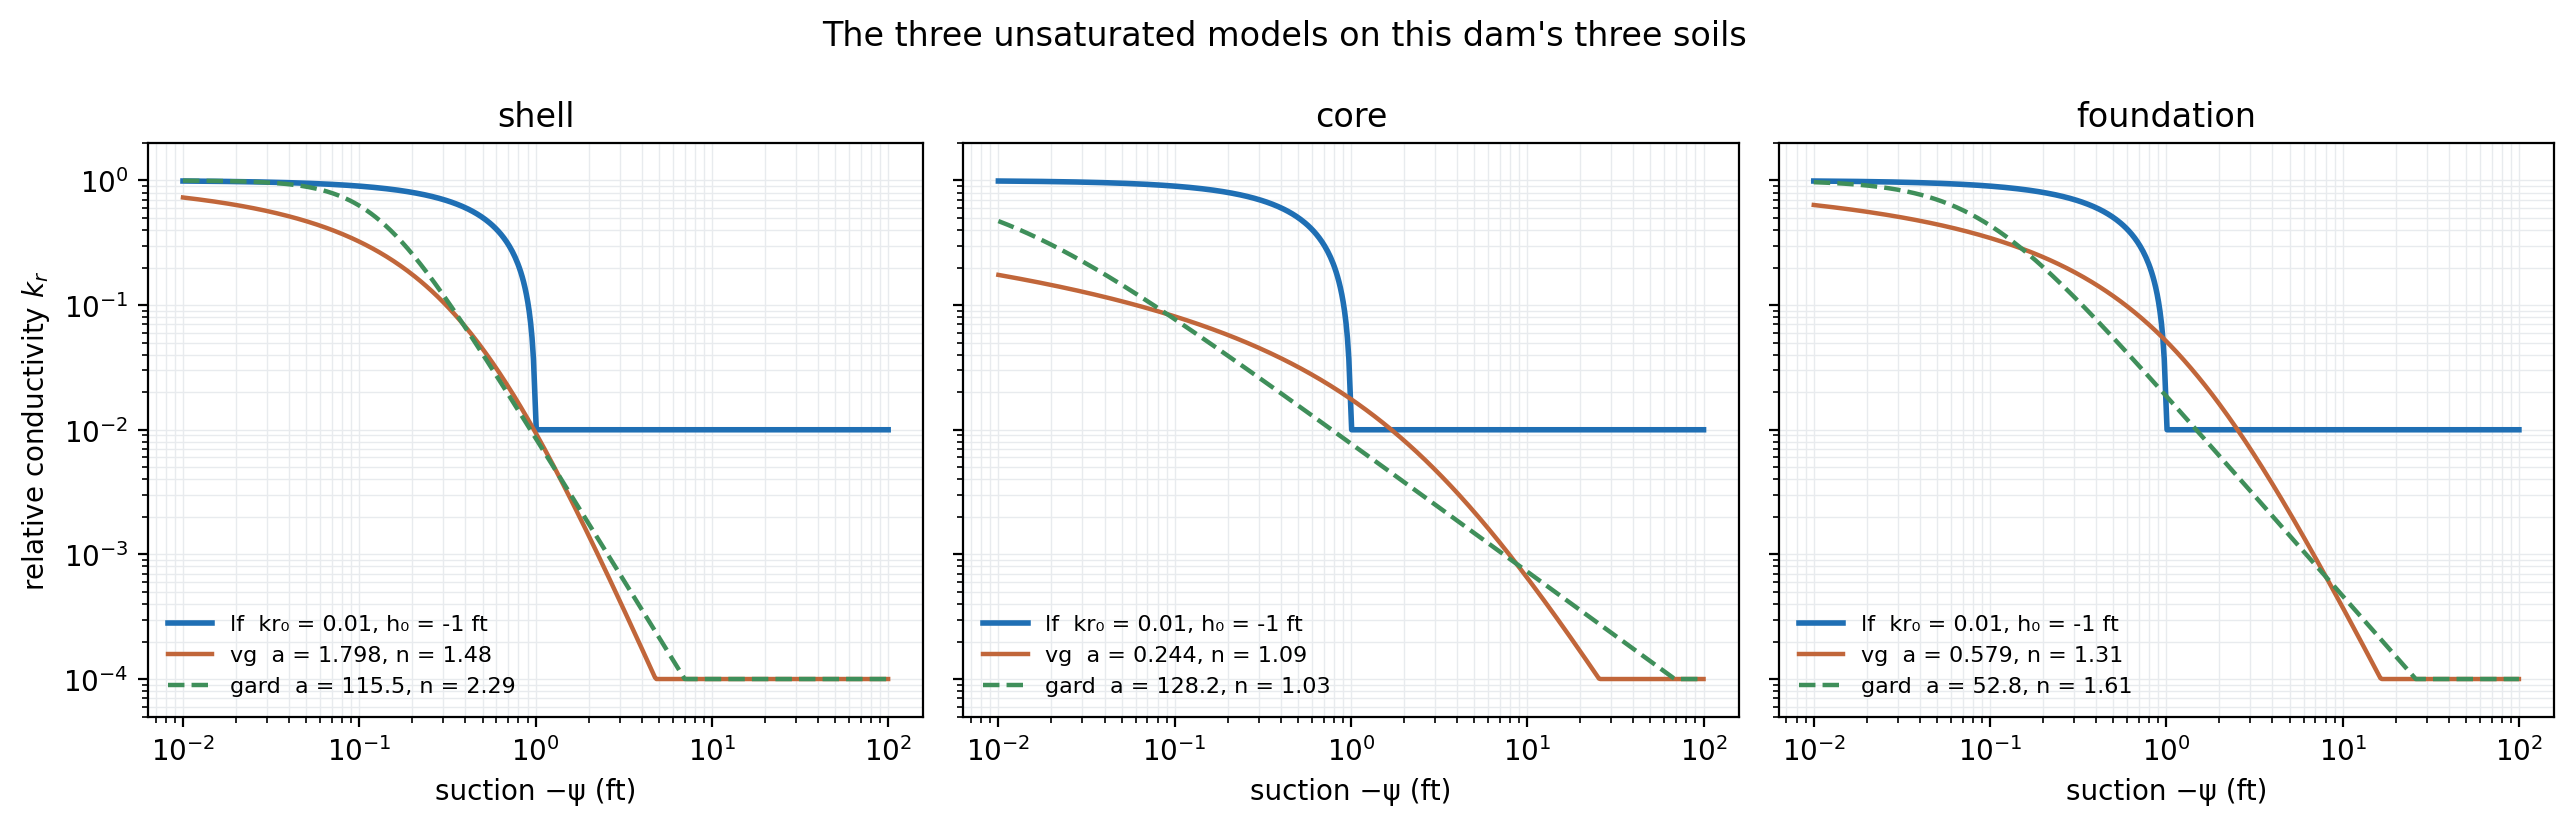
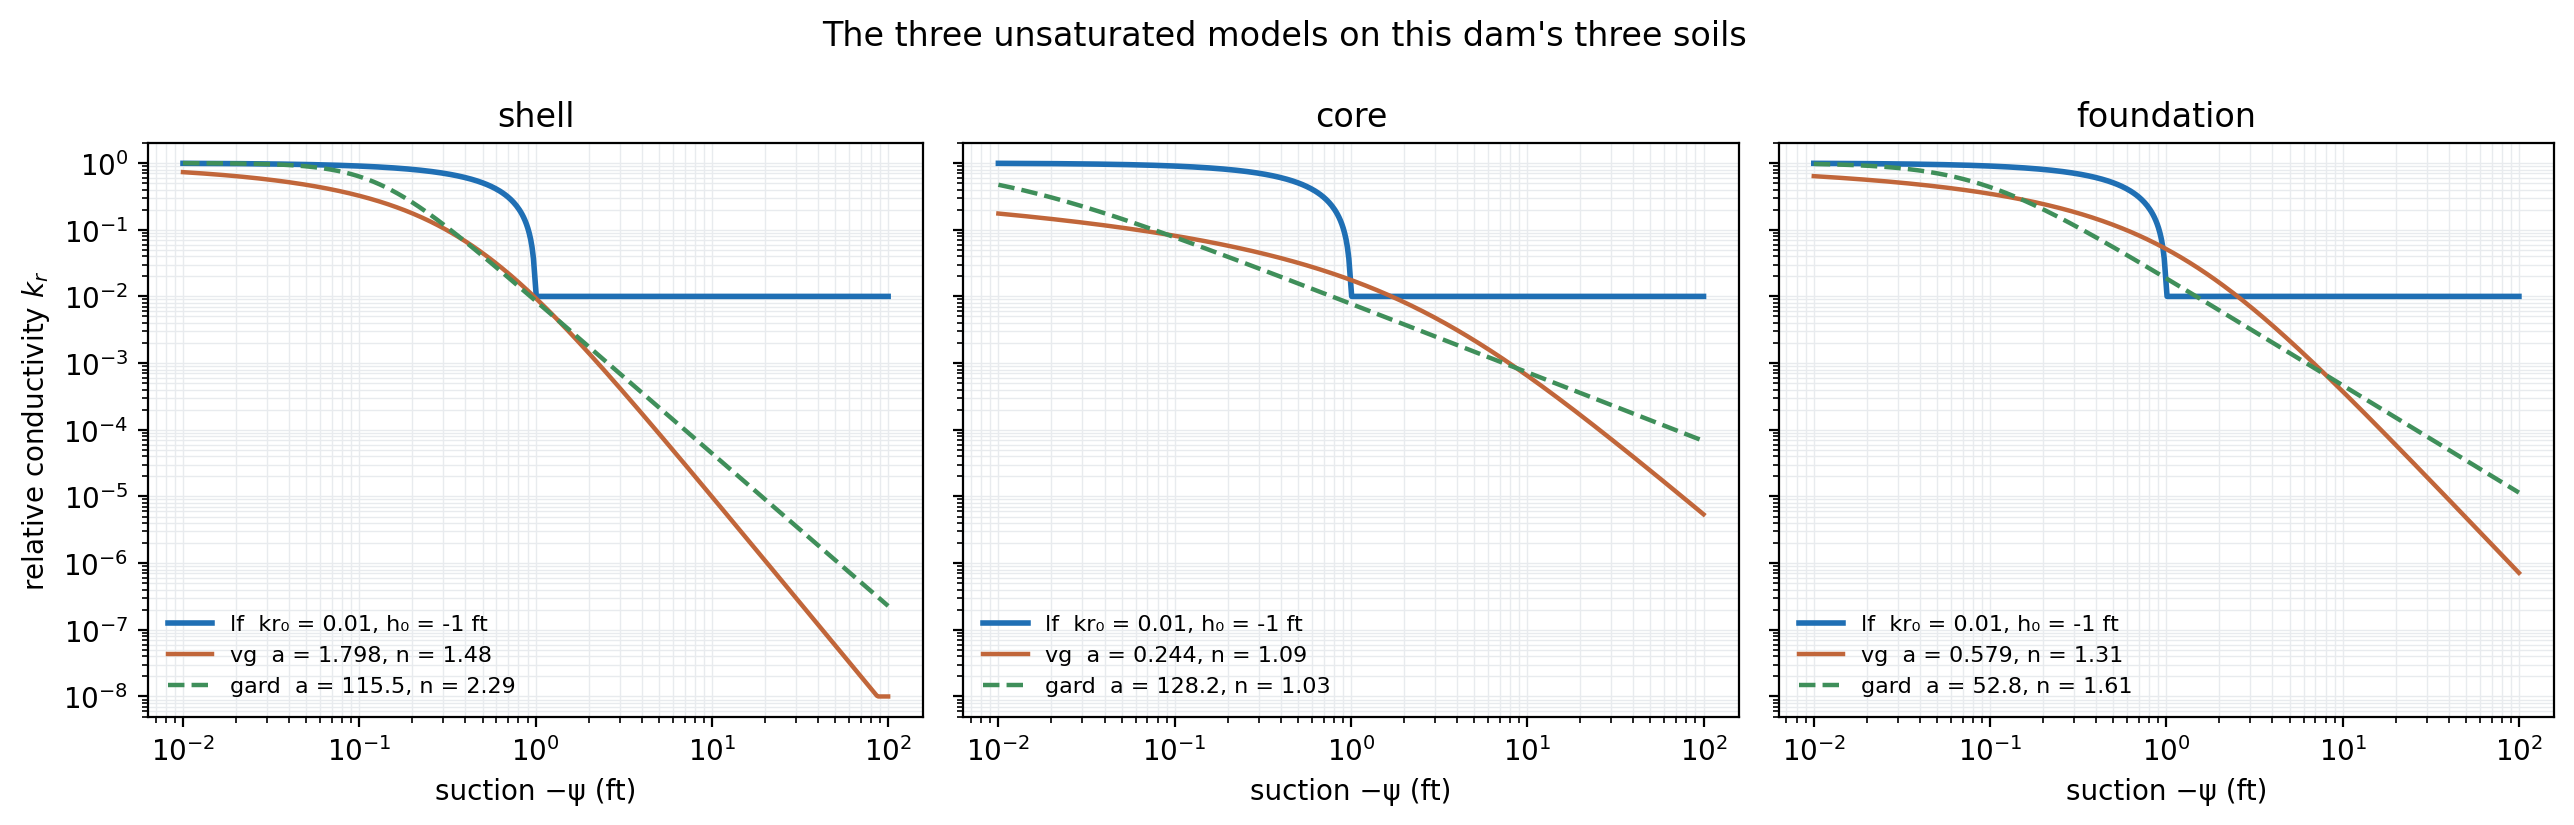
tutorials(seep02): the three models re-measured at the shipped floor
The van Genuchten and Gardner runs move with the deeper floor: q 1.8641 in 36
sweeps and 1.8655 in 28, against the linear front's unchanged 1.9546 — still
4.6% below it, and now 0.08% apart from each other. The phreatic surfaces part by
at most 0.46 / 0.36 / 0.15 ft over the eleven stations.

The kr figure draws the curves the solver evaluates, over the decades they
occupy, and the text says where each one bottoms out: the linear front on its own
0.01, the other two between 1e-4 and 1e-7 over the ten to forty feet of suction
this dam carries.

Claude-Session: https://claude.ai/code/session_01XjjT2aBxw8gY7EFdpoUcpj

diff --git a/docs/tutorials/seep02_johnson_dam.md b/docs/tutorials/seep02_johnson_dam.md
@@ -737,10 +737,13 @@ Between zero and one foot of suction it stays much wetter: at half a
 foot it is halfway down its straight line, at
 *k<sub>r</sub>* = 0.01 + 0.99 × 0.5 = 0.505, an order of magnitude above the other
 two. Below one foot it stops falling entirely and holds its floor of 0.01, while
-the other two continue down to the solver's own floor of 10<sup>−4</sup> and stay
-there. Over most of the unsaturated zone of this dam — where suctions of ten to
-forty feet are ordinary — the linear front leaves the soil a hundred times more
-conductive than the other two models do.
+the other two keep falling — the shell's van Genuchten curve runs all the way onto
+the solver's own 10<sup>−8</sup> guard at the right edge of the plot. Over the ten
+to forty feet of suction that are ordinary in this dam the two curved laws reach
+10<sup>−4</sup> to 10<sup>−7</sup> — the shell's steep curve
+furthest down, the core's flattest one least — which leaves the linear front from
+fifteen times more conductive in the core to tens of thousands of times in the
+shell.
 
 ### Running all three
 
@@ -752,11 +755,11 @@ surface changes.
 | Model | q (ft³/day per ft) | Iterations | Flow above the phreatic surface at x = 500 |
 | --- | :---: | :---: | :---: |
 | `lf` | 1.9546 | 23 | 10.3% |
-| `vg` | 1.8649 | 28 | 8.3% |
-| `gard` | 1.8661 | 27 | 8.6% |
+| `vg` | 1.8641 | 36 | 8.2% |
+| `gard` | 1.8655 | 28 | 8.6% |
 
-The two calibrated models agree with each other to **0.06%** in discharge, and
-both sit **4.5 to 4.6% below** the linear front. That gap is the whole of what the
+The two calibrated models agree with each other to **0.08%** in discharge, and
+both sit **4.6% below** the linear front. That gap is the whole of what the
 choice of model changes in this dam's total discharge.
 
 On the phreatic surface it changes less still:
@@ -764,9 +767,9 @@ On the phreatic surface it changes less still:
 ![The phreatic surface under each model](images/seep02_phreatic_models.png){width=1000}
 
 At section scale the three surfaces are one line. Read station by station, the
-linear front and van Genuchten differ by at most **0.40 ft** anywhere, the linear
-front and Gardner by at most **0.35 ft**, and van Genuchten and Gardner by at most
-**0.08 ft** — on a dam 80 ft tall, under a 60 ft head, on a mesh whose elements are
+linear front and van Genuchten differ by at most **0.46 ft** anywhere, the linear
+front and Gardner by at most **0.36 ft**, and van Genuchten and Gardner by at most
+**0.15 ft** — on a dam 80 ft tall, under a 60 ft head, on a mesh whose elements are
 6.25 ft.
 
 These are differences between three runs on one mesh, so the discretization error
@@ -785,11 +788,11 @@ tailwater flow — a 4.6% spread matters, and the model whose parameters can be
 defended from measurements is the one to use.
 
 The 4.6% gap itself is the floor's doing. The linear front holds *k<sub>r</sub>* at its
-floor of 0.01 through the deep unsaturated zone — a hundred times the
-conductivity the other two models leave there — and rerunning it with
-*kr<sub>0</sub>* lowered to the 10<sup>−4</sup> they bottom out at brings its
-discharge to 1.8707, against van Genuchten's 1.8649 and Gardner's 1.8661: 93% of
-the gap closes on that one parameter. The curve's shape barely matters by
+floor of 0.01 through the deep unsaturated zone, far above the conductivity the
+other two models leave there — and rerunning it with *kr<sub>0</sub>* lowered to
+10<sup>−4</sup>, which the other two are already below by five feet of suction,
+brings its discharge to 1.8707, against van Genuchten's 1.8641 and Gardner's
+1.8655: 93% of the gap closes on that one parameter. The curve's shape barely matters by
 comparison — sweeping *h<sub>0</sub>* twentyfold moves the discharge by the same
 4.6% — because on a dam whose unsaturated zone stands tens of feet above the
 water inside it, what the curve does in its first foot of suction is beside the
